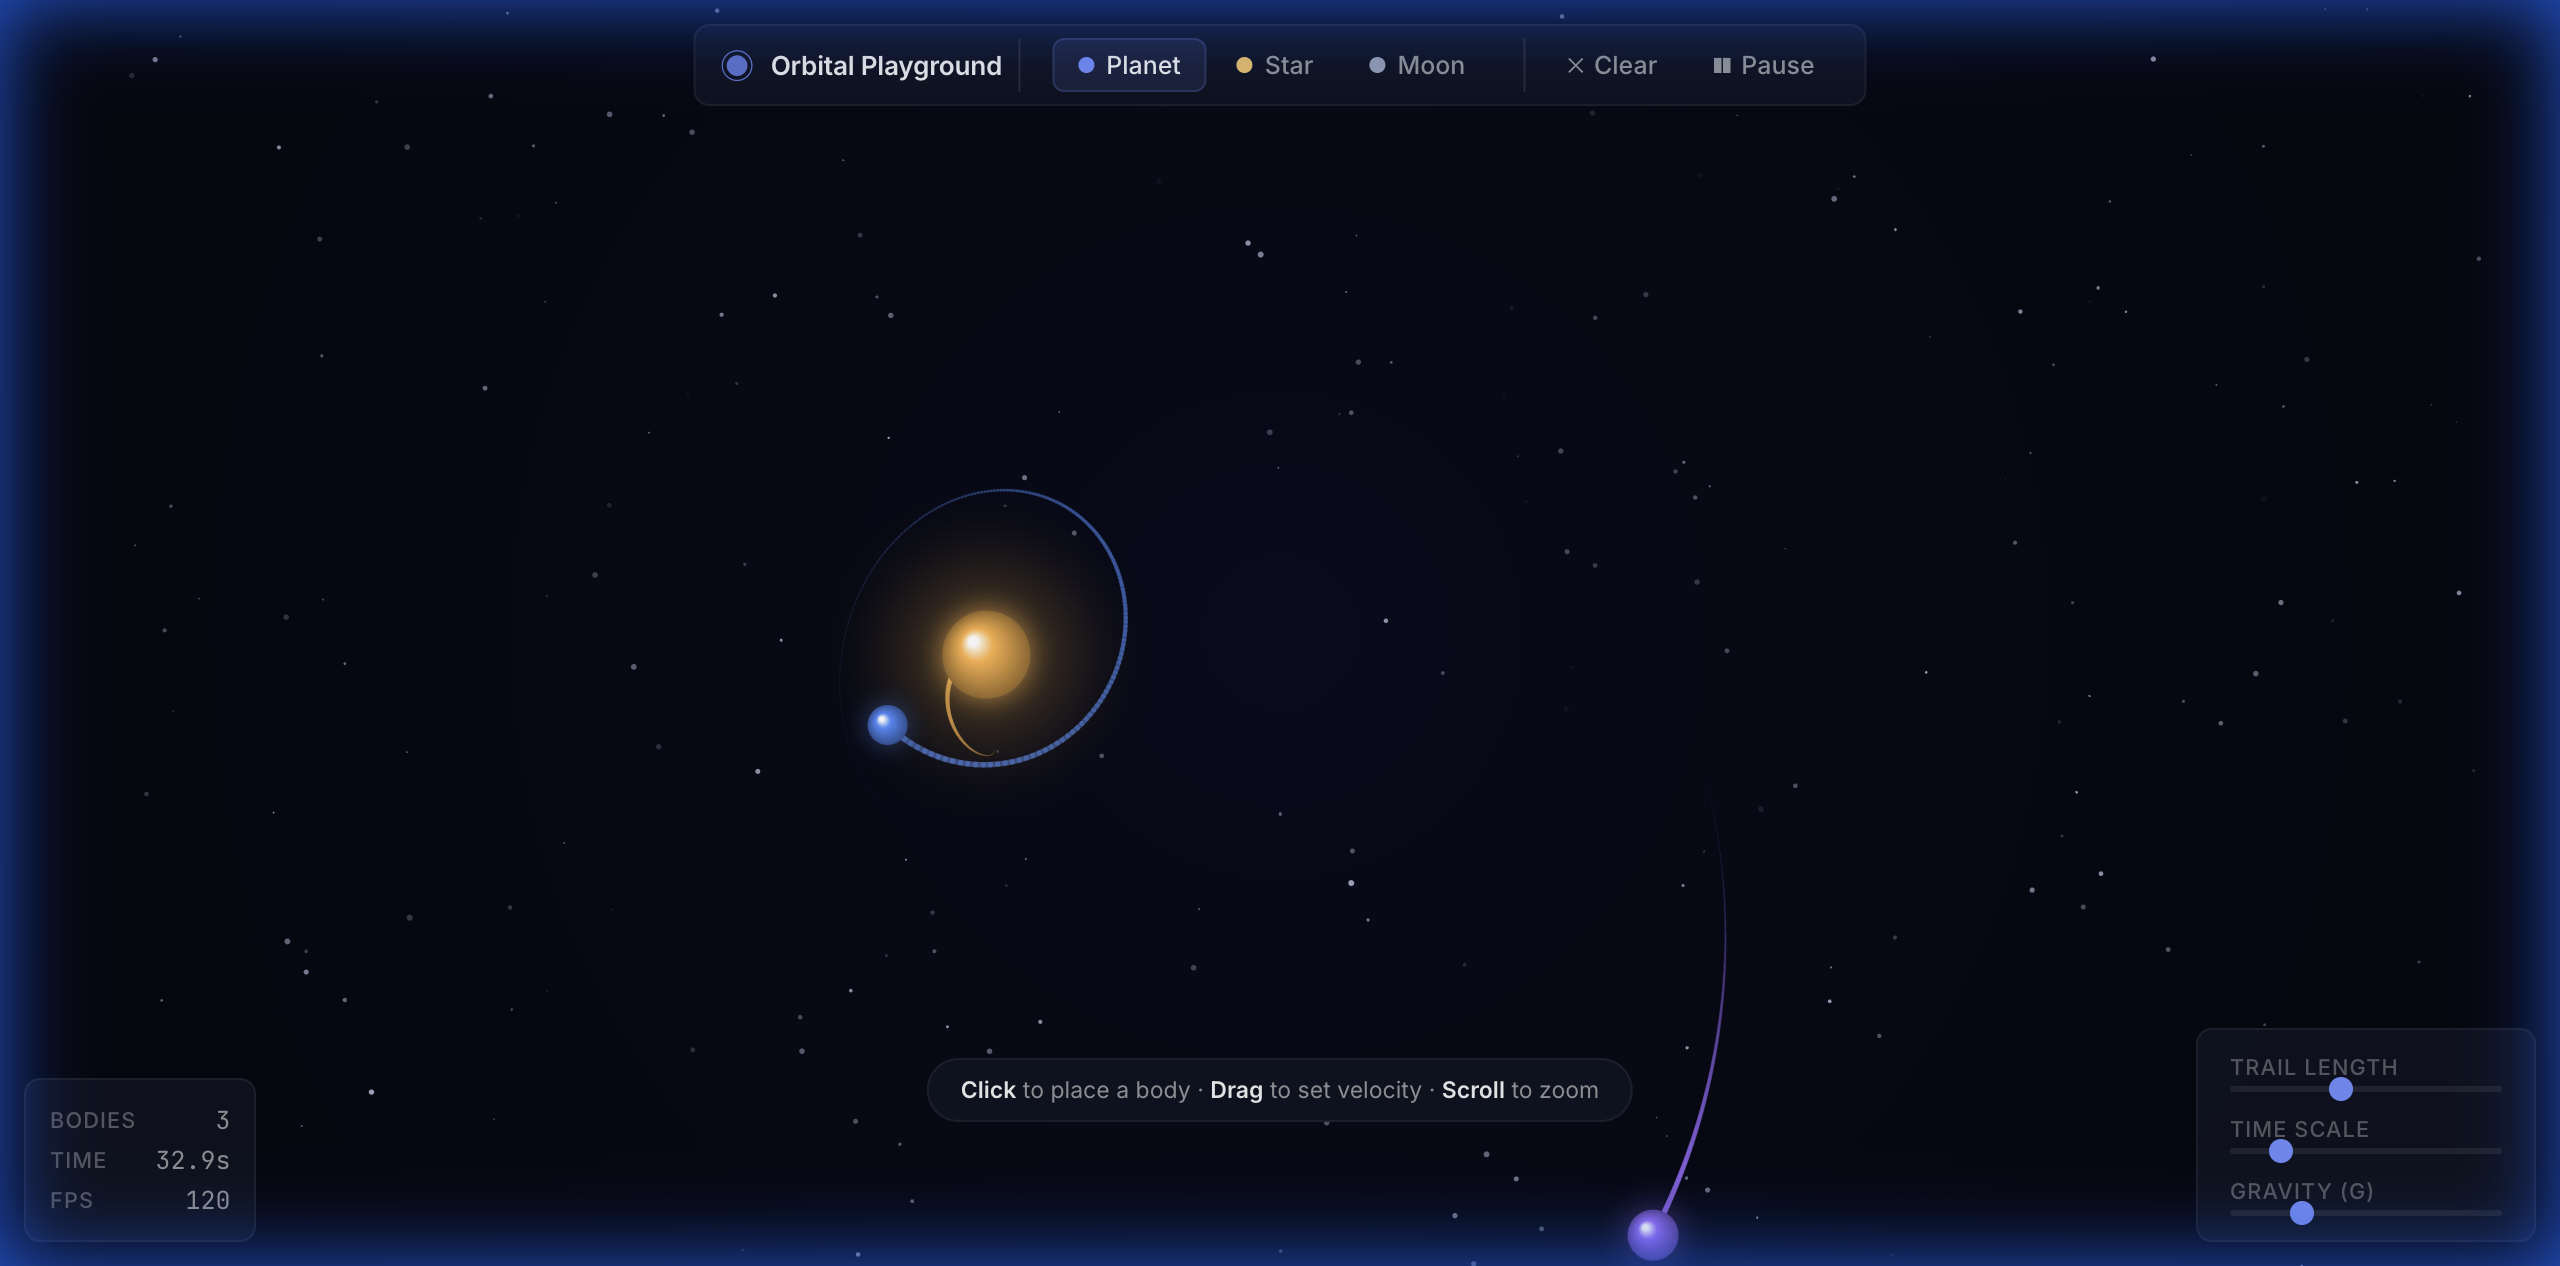
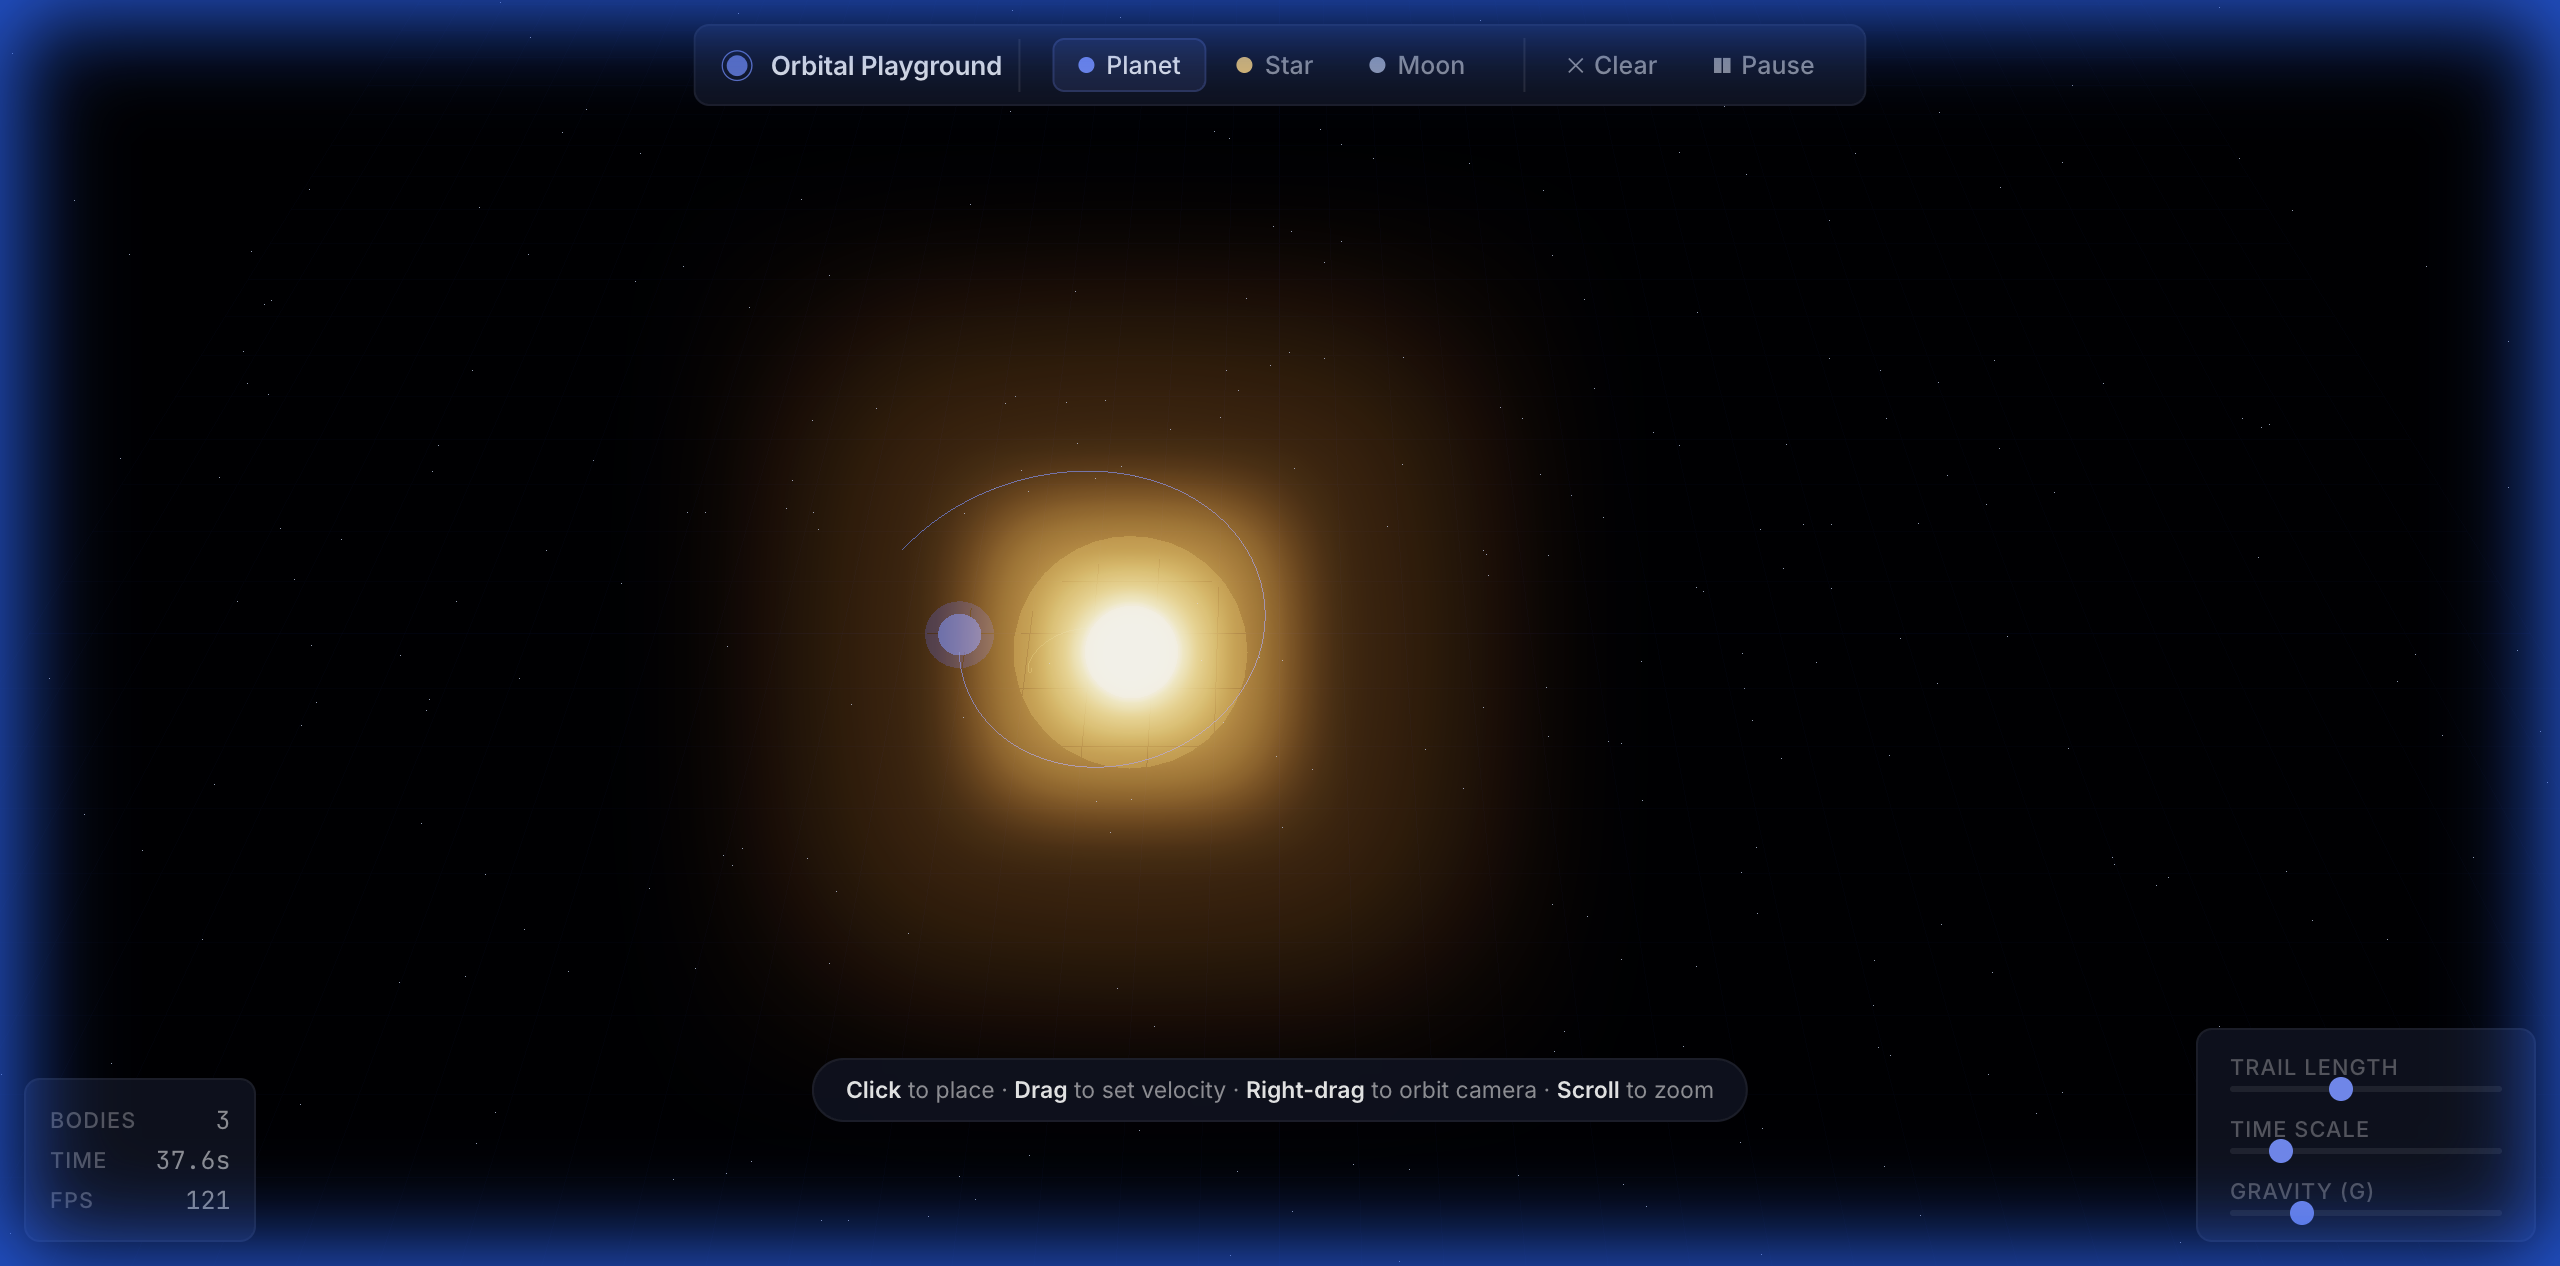
docs: update README, ARCHITECTURE, and screenshot for 3D
- New hero screenshot showing Three.js bloom renderer
- Architecture docs updated to reflect 3D module structure
- README mentions Three.js, bloom, camera orbit controls

Changed region(s): [[0.0, 0.0, 1.0, 1.0], [0.2812, 0.2464, 0.5938, 0.8009], [0.375, 0.8318, 0.625, 0.8934]]

diff --git a/ARCHITECTURE.md b/ARCHITECTURE.md
@@ -1,65 +1,54 @@
 # Architecture
 
-## Overview
-
-Orbital Playground is a browser-based N-body gravity simulator built with
-vanilla JavaScript and HTML5 Canvas. It uses ES modules for clean dependency
-management with zero build tooling.
-
 ## Design Principles
 
-- **Single Responsibility** — each module has one well-defined purpose.
-- **Dependency Injection** — modules receive their dependencies, never reach
-  for globals.
-- **Configuration over Magic Numbers** — all tuneable constants live in
-  `config.js`.
-- **Immutable Value Objects** — `Vector2` returns new instances rather than
-  mutating in place, keeping physics calculations predictable.
-- **Composition over Inheritance** — favour small, composable units.
+1. **ES modules, no bundler** — each file is a standalone module loaded via `<script type="module">` and `importmap`.
+2. **Single responsibility** — every module does one thing.
+3. **Dependency injection** — `app.js` is the only file that knows about everything else. All other modules are decoupled.
+4. **Immutable physics** — `Vector3` operations always return new instances. No mutation, no aliasing bugs.
+5. **Read-only rendering** — the renderer reads simulation state but never writes to it.
+6. **Zero build step** — Three.js loaded from CDN via import map.
 
 ## Module Map
 
 ```
-src/
-├── index.html              Entry point
-├── css/
-│   └── main.css            Design tokens, base styles, component styles
-└── js/
-    ├── app.js              Bootstrap — wires modules, owns the game loop
-    ├── config.js           Constants, body presets, color palettes
-    ├── core/
-    │   ├── Vector2.js      Immutable 2D vector math
-    │   ├── Body.js         Celestial body entity
-    │   └── Simulation.js   N-body physics engine (Velocity Verlet)
-    ├── rendering/
-    │   ├── Camera.js       Viewport ↔ world coordinate transforms
-    │   └── Renderer.js     Canvas drawing (bodies, trails, effects)
-    └── input/
-        └── InputHandler.js Mouse / touch / keyboard event handling
-
-tests/
-├── Vector2.test.js         Vector math unit tests
-└── Simulation.test.js      Physics engine integration tests
+src/js/
+  app.js                      ← Composition root (wires everything)
+  config.js                   ← All tuneable constants
+  core/
+    Vector3.js                ← Immutable 3D vector math
+    Body.js                   ← Celestial body data (pos, vel, mass, trail)
+    Simulation.js             ← Velocity Verlet N-body integrator
+  rendering/
+    Renderer3D.js             ← Three.js scene, camera, post-processing
 ```
 
 ## Data Flow
 
 ```
-InputHandler  ──▶  App  ──▶  Simulation.step()
-                    │              │
-                    │              ▼
-                    └──▶  Renderer.render(Simulation, Camera)
-                              │
-                              ▼
-                           Canvas
+User Input (pointer events)
+  → app.js (raycast to XZ plane → sim.addBody) 
+  → Simulation.step() (Verlet physics, collision resolution)
+  → Renderer3D.render() (sync Three.js meshes/trails to body state)
+  → EffectComposer → Bloom → screen
 ```
 
 ## Key Decisions
 
-| Decision | Rationale |
-|----------|-----------|
-| ES modules, no bundler | Zero config, deploys as-is to GitHub Pages |
-| Velocity Verlet integration | Energy-conserving, stable for orbital sims |
-| Sub-stepping | Multiple physics steps per frame for accuracy |
-| Canvas 2D (not WebGL) | Simpler, sufficient for ≤100 bodies, wide support |
-| Immutable Vector2 | Prevents subtle mutation bugs in physics code |
+### Three.js via Import Map
+Three.js is loaded from `cdn.jsdelivr.net` using a `<script type="importmap">`. This means:
+- Zero install / zero build for deployment
+- Works on GitHub Pages out of the box
+- Standard `import * as THREE from 'three'` syntax
+
+### Velocity Verlet Integrator
+Chosen over simple Euler because it's symplectic — it conserves energy, so orbits stay stable over thousands of frames. Uses configurable substeps per frame for close-encounter accuracy.
+
+### Immutable Vector3
+All vector operations return new `Vector3` instances. This prevents subtle bugs where two bodies share a velocity reference and one mutation affects both. The GC cost is negligible for the body counts we handle.
+
+### Bloom Post-processing
+The rendering pipeline uses Three.js `EffectComposer` with `UnrealBloomPass`. Stars emit light via `PointLight` and their emissive materials trigger the bloom threshold, creating a natural volumetric glow without any sprite tricks.
+
+### XZ Plane Placement
+Body placement raycasts from the camera through the mouse position to the y=0 plane. This keeps orbits viewable from the default 3D camera angle while allowing the camera to orbit freely around the system.

diff --git a/README.md b/README.md
@@ -4,17 +4,17 @@
 [![License: MIT](https://img.shields.io/badge/License-MIT-blue.svg)](LICENSE)
 [![GitHub Pages](https://img.shields.io/badge/demo-live-brightgreen)](https://nordinbelkacemi.github.io/orbital-playground/)
 
-An interactive N-body gravity simulator. Place stars, planets, and moons, fling them into orbit, and watch orbital mechanics unfold in real time.
+An interactive 3D N-body gravity simulator built with Three.js. Place stars, planets, and moons, fling them into orbit, and watch orbital mechanics unfold in real-time with bloom lighting and volumetric glow.
 
 ![Orbital Playground](screenshot.png)
 
 ## Try It
 
-**[Live Demo](https://nordinbelkacemi.github.io/orbital-playground/)** — runs entirely in your browser.
+**[Live Demo](https://nordinbelkacemi.github.io/orbital-playground/)** — runs entirely in your browser. No install, no build step.
 
 - **Click** to place a body
 - **Drag** to set its velocity
-- **Scroll** to zoom, **middle-click + drag** to pan
+- **Right-drag** to orbit the camera, **scroll** to zoom
 - **1/2/3** to switch between planet/star/moon
 - **Space** to pause, **C** to clear
 
@@ -36,25 +36,22 @@ npm run test:watch # watch mode
 
 ## Architecture
 
-Vanilla JavaScript with ES modules. No frameworks, no build step.
+Vanilla JavaScript with ES modules + Three.js via import map. No frameworks, no build step.
 
 ```
 src/
   js/
     core/
-      Vector2.js      # Immutable 2D vector math
-      Body.js          # Celestial body entity
-      Simulation.js    # N-body physics (Velocity Verlet)
+      Vector3.js        # Immutable 3D vector math
+      Body.js            # Celestial body entity
+      Simulation.js      # N-body physics (Velocity Verlet)
     rendering/
-      Camera.js        # Viewport transforms and zoom
-      Renderer.js      # Canvas 2D drawing
-    input/
-      InputHandler.js  # Mouse/touch/keyboard abstraction
-    config.js          # All tuneable constants
-    app.js             # Composition root
+      Renderer3D.js      # Three.js scene, bloom, trails
+    config.js            # All tuneable constants
+    app.js               # Composition root
   css/
-    main.css           # Design tokens and UI styles
-  index.html
+    main.css             # Design tokens and UI styles
+  index.html             # Import map for Three.js
 ```
 
 See [`ARCHITECTURE.md`](ARCHITECTURE.md) for design principles and data flow.
